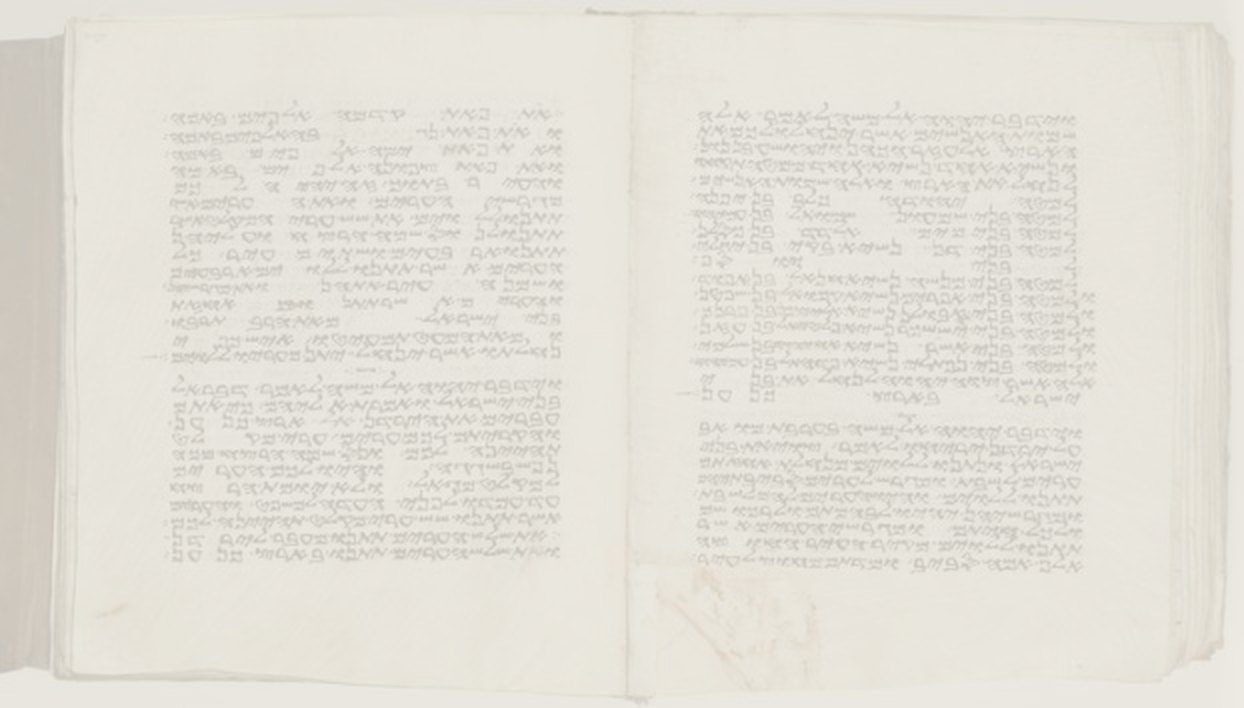
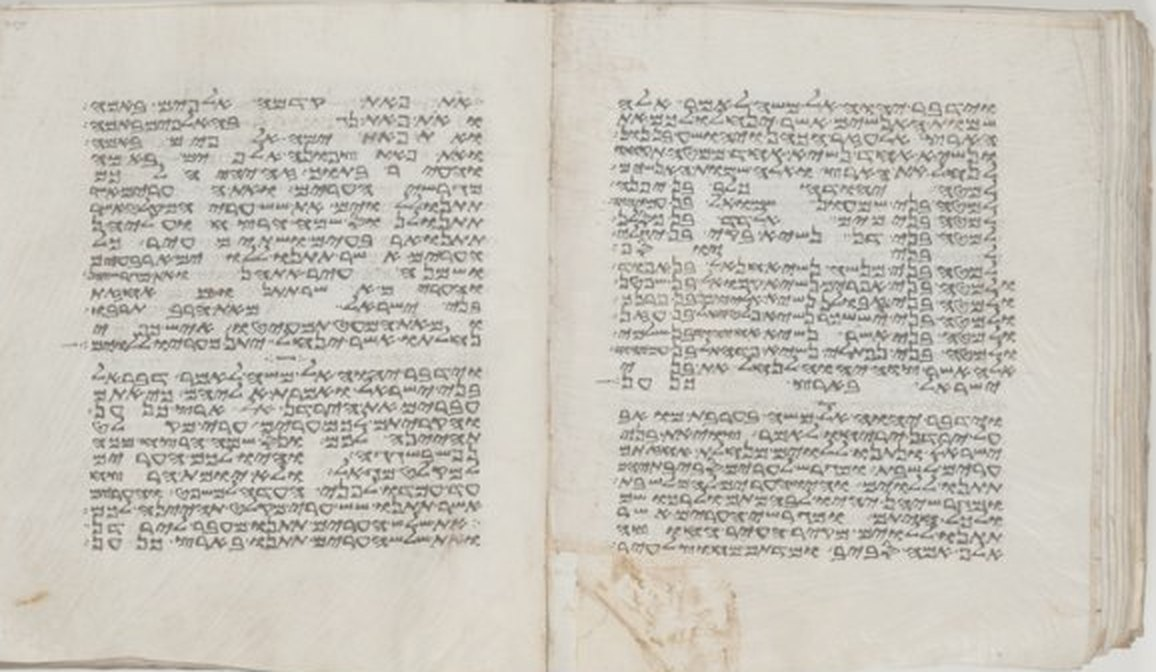
הספר כולו נראה, ואותיות השירון צרובות באש
שלושה שינויים בשירון שבתחתית רשימת הספרים:

הספר נראה בשלמותו — השוליים שמשמאל, שאינם מגוף הספר, נחתכו מן
התצלום, ולמסגרת ניתנה מידתו של הלוח (578×336) בדיוק, כך שהתמונה
ממלאת אותה מפינה לפינה בלא חיתוך ובלא מתיחה. רוחבה מוגבל, ולפיכך
אינה חורגת מן התפריט בשום רוחב מסך.

בהירות הספר הופחתה: הלוח מוזג אל הקלף במידה קטנה מקודם, וכתב היד
עולה ונראה.

אותיות השירון נצרבו באש: ליבן פחם, סביבן שפת גחלת חיה, ומסביב
מתפשטת החריכה אל תוך הקלף.

fitBookPoem מודד עתה גם את גובה העמוד ולא את רוחבו בלבד, שהרי גובה
המסגרת נקבע מעתה על פי מידת התצלום ולא על פי השיר.

diff --git a/web/static/style.css b/web/static/style.css
@@ -220,29 +220,40 @@ body.div-collapsed .div-handle{ height:26px; }
    is measured and scaled to the width available; see fitBookPoem(). */
 .bkpoem{ display:flex; justify-content:center; overflow:hidden; padding:10px 14px 6px; }
 /* the quill rule above the poem and, turned about, below it */
-.ornframe{ width:100%; max-width:100%; box-sizing:border-box;
-           display:flex; flex-direction:column; align-items:center; gap:9px;
-           position:relative; isolation:isolate; border-radius:10px; padding:16px 12px 14px; }
-/* ── the open codex the poem is set upon ────────────────────────────────────
+.ornframe{ width:100%; max-width:min(100%, 620px); box-sizing:border-box;
+           display:flex; flex-direction:column; align-items:center; justify-content:center;
+           gap:9px; position:relative; isolation:isolate; border-radius:10px; padding:12px 14px;
+           aspect-ratio:1.7202; }          /* the plate's own proportion — see below */
+/* ── the open codex the poem is written upon ────────────────────────────────
    The photograph of the manuscript is the frame's own background, not a picture
-   of its own: it covers the frame's box, is clipped by the frame's rounded
-   corners, and the frame is only ever as wide as the book list itself — so
-   however wide the page grows, the codex cannot spill past the menu. The file
-   (poem_manuscript.jpg) is already lightened: the photograph is dark and the
-   poem is written in gold, so the plate was blended toward the app's parchment
-   until the writing sits plainly upon it and the manuscript still shows through. */
+   of its own. The frame is given the plate's exact proportion (578×336 after the
+   left margin, which is not part of the book, was cut away), so the background
+   fills it corner to corner with the WHOLE book in view — nothing cropped, and
+   nothing stretched. Its width is the book list's, capped, so the codex can
+   never spill past the menu; fitBookPoem() then takes the type down to whatever
+   room is left inside, in height as well as in width. */
 .ornframe::before{
   content:''; position:absolute; inset:0; z-index:-1; border-radius:inherit;
-  background:url('/static/img/poem_manuscript.jpg') center/cover no-repeat #f7f4ea;
-  box-shadow:inset 0 0 0 1px rgba(138,106,31,.16);
+  background:url('/static/img/poem_manuscript.jpg') center/100% 100% no-repeat #efe9dc;
+  box-shadow:inset 0 0 0 1px rgba(90,60,20,.22);
 }
+/* on a narrow telephone the page is small, so give its margins back to the poem */
+@media (max-width:420px){ .ornframe{ padding:8px 10px; gap:6px; } }
 .orn-rule{ width:100%; line-height:0; }
 .orn-rule svg{ display:block; width:100%; height:auto; }
 .orn-rule.bot{ transform:rotate(180deg); }
 .bkpoem-grid{ flex:0 0 auto; display:grid; grid-template-columns:max-content max-content;
               column-gap:1.1em; row-gap:.3em; direction:rtl; white-space:nowrap;
               font-family:'Hebrew',serif; font-size:23px; line-height:1.45;
-              color:#8a6a1f; text-shadow:0 1px 0 rgba(255,255,255,.6); }
+              /* letters burnt into the page: a charred core, a rim of live ember
+                 around it, and the scorch spreading out into the parchment */
+              color:#1e0a02;
+              text-shadow:0 0 1px rgba(255,222,158,.85),   /* the live rim */
+                          0 0 3px rgba(255,148,46,.72),
+                          0 0 6px rgba(198,68,8,.62),
+                          0 0 12px rgba(116,38,5,.52),
+                          0 0 24px rgba(58,24,5,.44),      /* smoke into the page */
+                          0 1px 1px rgba(18,7,1,.85); }
 /* nowrap keeps the half on one line; justifying the last line (which is also the
    only line) spreads its words across the whole column, so the colons line up */
 .bkpoem-cell{ text-align:justify; text-align-last:justify; }

diff --git a/web/static/app.js b/web/static/app.js
@@ -1230,10 +1230,11 @@ function bookPoem(){
 const POEM_MAX = 23, POEM_MIN = 7;
 function fitBookPoem(){
   const wrap = document.querySelector('.bkpoem'); if(!wrap) return;
-  const grid = wrap.querySelector('.bkpoem-grid'), cs = getComputedStyle(wrap);
-  if(!grid) return;
-  // the room is the wrapper's CONTENT box: clientWidth still carries its padding
-  const avail = wrap.clientWidth - parseFloat(cs.paddingLeft) - parseFloat(cs.paddingRight) - 1;
+  const frame = wrap.querySelector('.ornframe'), grid = wrap.querySelector('.bkpoem-grid');
+  if(!grid || !frame) return;
+  const cs = getComputedStyle(frame);
+  // the room is the frame's CONTENT box: clientWidth still carries its padding
+  const avail = frame.clientWidth - parseFloat(cs.paddingLeft) - parseFloat(cs.paddingRight) - 1;
   if(avail <= 0) return;                       // not on screen yet
   grid.style.fontSize = POEM_MAX + 'px';
   const nat = grid.getBoundingClientRect().width;    // never shrinks: flex 0 0 auto
@@ -1241,7 +1242,20 @@ function fitBookPoem(){
   let px = Math.max(POEM_MIN, Math.min(POEM_MAX, POEM_MAX * avail / nat));
   grid.style.fontSize = px.toFixed(2) + 'px';
   const got = grid.getBoundingClientRect().width;    // one pass for the rounding
-  if(got > avail) grid.style.fontSize = Math.max(POEM_MIN, px * avail / got).toFixed(2) + 'px';
+  if(got > avail){
+    px = Math.max(POEM_MIN, px * avail / got);
+    grid.style.fontSize = px.toFixed(2) + 'px';
+  }
+  // The frame now holds the whole codex, so its height is fixed by the picture's
+  // proportion rather than by the poem. Take the type down again if the five
+  // couplets and the two rules would stand taller than the page they are on.
+  let room = frame.clientHeight - parseFloat(cs.paddingTop) - parseFloat(cs.paddingBottom);
+  const gap = parseFloat(cs.rowGap) || 0;
+  for(const kid of frame.children)
+    if(kid !== grid) room -= kid.getBoundingClientRect().height + gap;
+  const tall = grid.getBoundingClientRect().height;
+  if(room > 0 && tall > room)
+    grid.style.fontSize = Math.max(POEM_MIN, px * room / tall).toFixed(2) + 'px';
 }
 
 // ── the books as the Samaritan tradition names them ──────────────────────────

diff --git a/web/static/sw.js b/web/static/sw.js
@@ -1,7 +1,7 @@
 /* Service worker: NETWORK-FIRST so the app always loads the latest code when
    online (an earlier cache-first version served stale assets after updates),
    falling back to the cache only when offline. /api/* always hits the network. */
-const CACHE = 'torah-web-v227';
+const CACHE = 'torah-web-v228';
 const SHELL = [
   '/', '/manifest.json',      // app.js + style.css are cached by the page's own
                              // versioned request; precaching them here fetched
